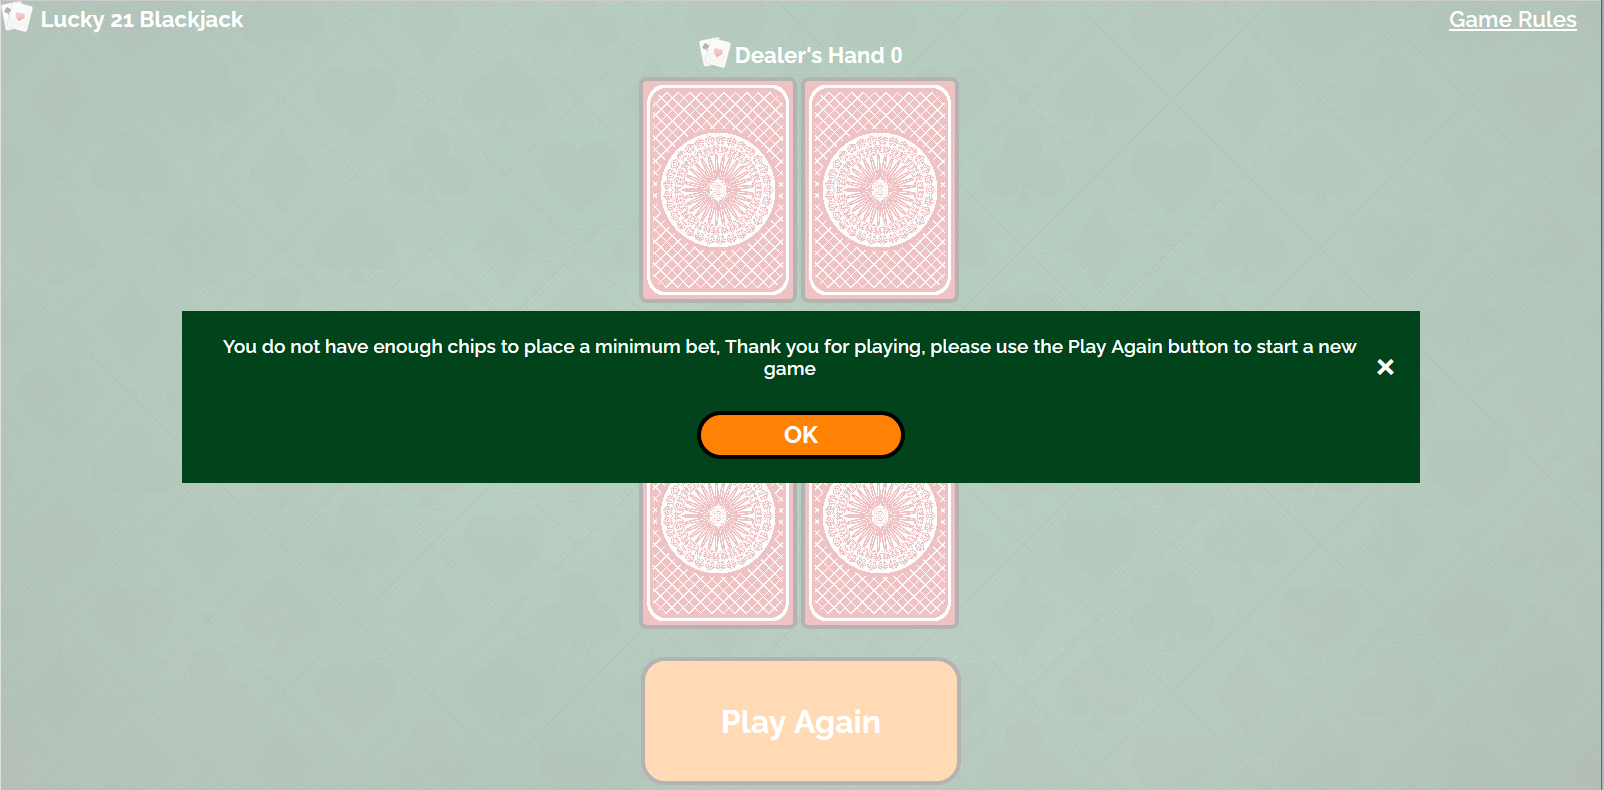
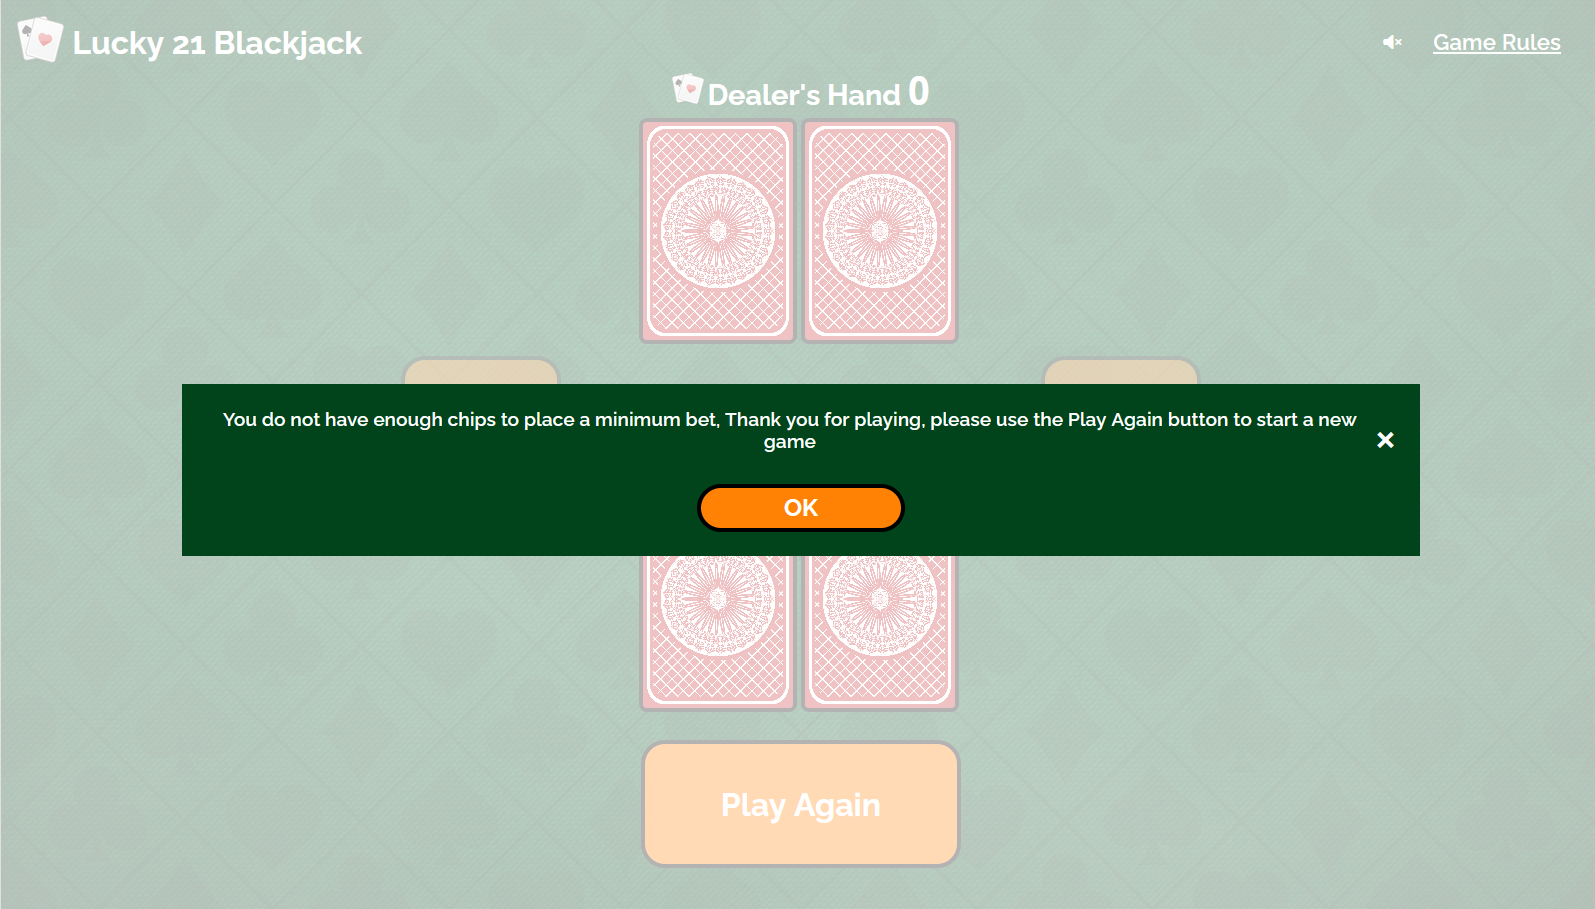
Update readme images

Changed region(s): [[0.0922, 0.0304, 0.8909, 1.0], [0.8602, 0.0, 1.0, 0.3646], [0.0, 0.0, 0.2458, 0.0608]]

diff --git a/assets/css/style.css b/assets/css/style.css
@@ -432,7 +432,7 @@ header {
 
     /* shift hand to compensate for overlap */
     #dealers-cards, #players-cards {
-        margin-right: 3.9rem;
+        margin-right: 3.7rem;
     }
 
     /* Add some space below logo */

diff --git a/README.md b/README.md
@@ -916,7 +916,7 @@ During testing I noticed that the player could play the game betting 0, once the
 
 ### Betting section moving
 
-During testing I noticed that when the initial cards were dealt by the dealer, for a brief moment (0.5sec) the player's card div was empty and this caused the betting section to shift up the page briefly. To combat this I increased the time that the animation took to complete to 1.3seconds. This fixed the issue due to the fact that the dealer only waits 1.1second between dealing the cards. 
+During testing I noticed that when the initial cards were dealt by the dealer, for a brief moment (0.5sec) the player's card div was empty and this caused the betting section to shift up the page noticeably. To combat this I increased the time that the animation took to complete to 1.3seconds. This fixed the issue due to the fact that the dealer only waits 1.1second between dealing the cards. I could further improve this by increasing the delay more but this takes from the user experience as the animation does not look as good at hight transition times. 
 
 
 ## Automated testing bugs
